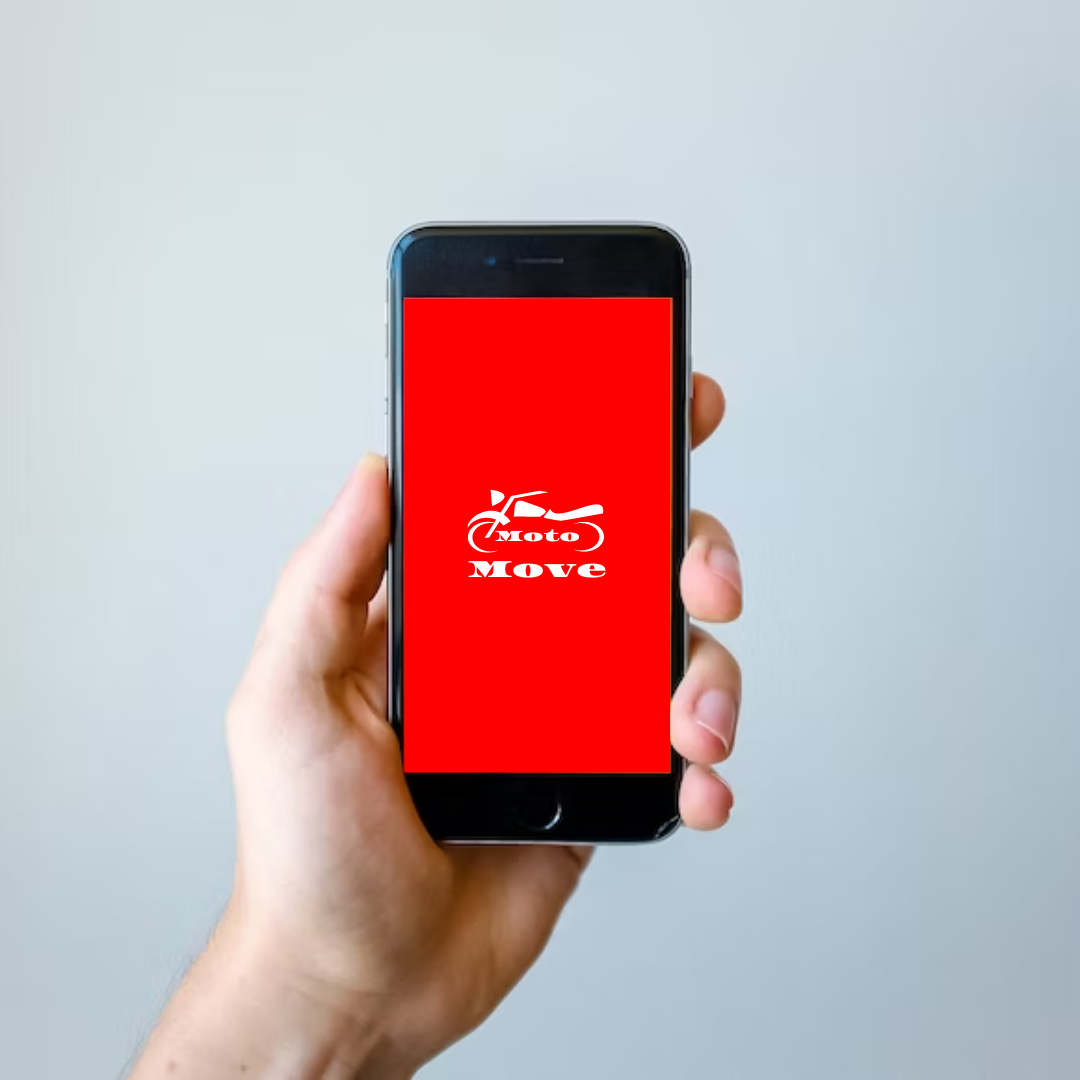
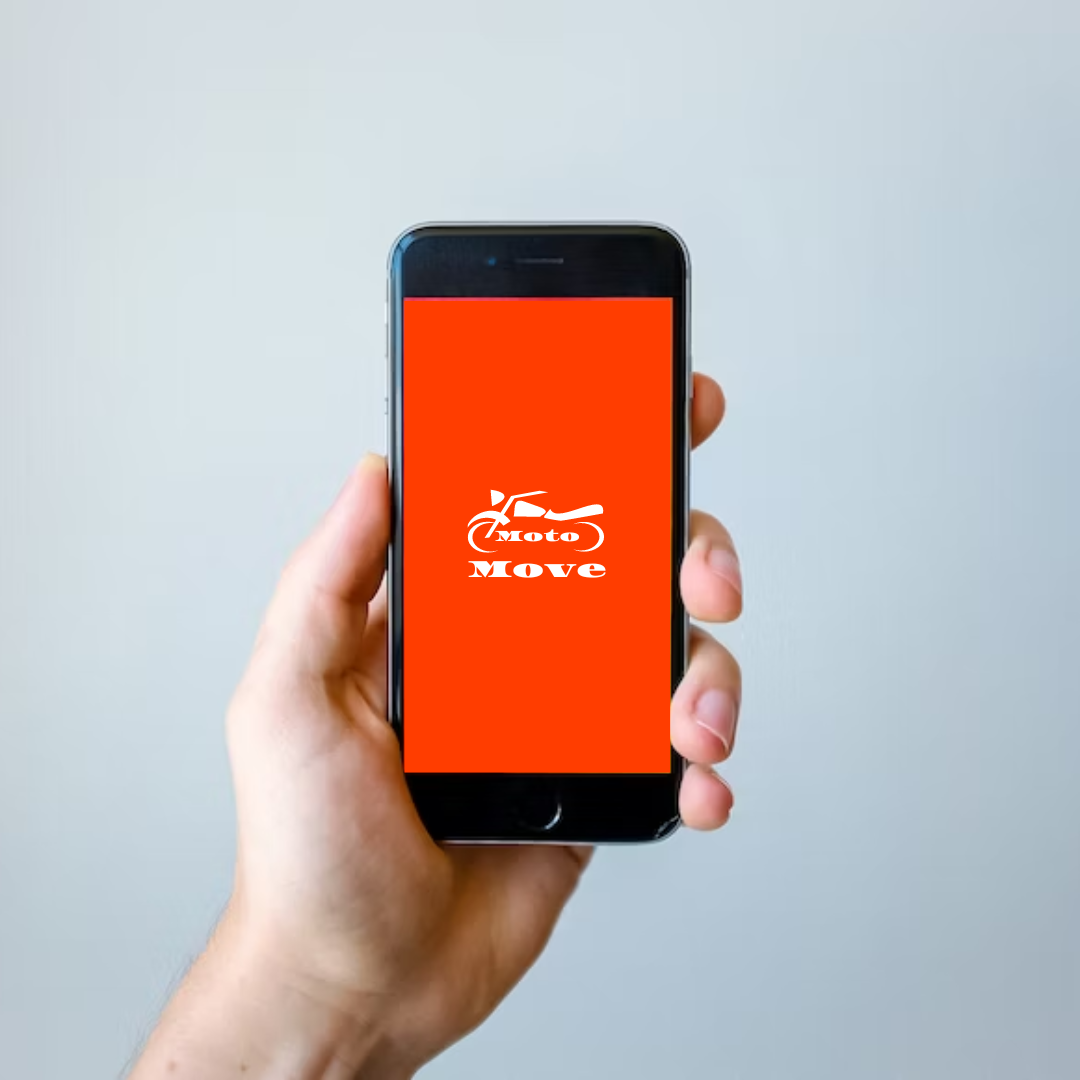
tela inicial pronta

Changed region(s): [[0.3667, 0.275, 0.6417, 0.7333]]

diff --git a/src/public/css/style.css b/src/public/css/style.css
@@ -1,11 +1,107 @@
 :root {
     --black-color: #000000;
     --dark-grey-color: #292929;
-    --main-red-color: #FF0000;
-    --light-grey-color: #7A7A7A;
+    --main-color: #FF3D00;
+    --light-main-color: #ff9270;
+    --light-grey-color: #ebe5e5;
     --white-color: #FFFFFF;
 }
 
-body {
-    background-color: #000000;
+/* Menu */
+.start-menu {
+    background-color: var(--main-color);
+}
+
+.logo-menu {
+    width: 9rem;
+}
+
+.menu-list {
+    color: var(--white-color);
+}
+
+.menu-list:hover {
+    color: var(--light-main-color);
+}
+
+hr {
+    width: 50%;
+    border-color: var(--main-color);
+    border-top: .2rem solid var(--main-color);
+    opacity: 100%;
+}
+
+/* About */
+.img-smartphone {
+    width: 25rem;
+}
+
+/* Register */
+#register {
+    background-color: var(--light-grey-color);
+    height: 37rem;
+}
+
+#register hr {
+    width: 21%;
+}
+
+.card-register {
+    width: 35rem;
+    text-align: center;
+    box-shadow: 5px 5px 10px rgba(0, 0, 0, 0.5);
+}
+
+.card-register p {
+    text-align: justify;
+}
+
+.button {
+    background-color: var(--main-color);
+    color: var(--white-color);
+}
+
+.button:hover {
+    background-color: var(--light-main-color);
+}
+
+#register ion-icon {
+    color: var(--main-color);
+    font-size: 5rem;
+}
+
+/* Contact */
+#contact li ion-icon{
+    color: var(--main-color);
+    font-size: 2rem;
+    margin-bottom: -.7rem;
+}
+
+#contact a ion-icon{
+    color: var(--white-color);
+    font-size: 1.5rem;
+    margin-bottom: -.35rem;
+}
+
+#contact li {
+    margin-top: 2rem;
+}
+
+/* Footer */
+.infos {
+    background-color: var(--light-main-color);
+}
+
+.social {
+    color: var(--main-color);
+    font-size: 1.6rem;
+}
+
+.social:hover {
+    color: var(--light-main-color);
+}
+
+.copyright {
+    background-color: var(--main-color);
+    color: var(--white-color);
 }

diff --git a/src/routes/routes.js b/src/routes/routes.js
@@ -9,10 +9,33 @@ routes.get('/',function(req, res){
 // Tela Inicial sem login
 routes.get('/inicio', function(req, res) {
   const dadosTemplate = {
-    title: 'MOTO MOVE | Bem-Vindo',
-    style: 'public/css/style.css'
+    title: 'MOTO MOVE | Bem-Vindo'
   };
   res.render('inicio', dadosTemplate);
 });
 
-module.exports =  routes;
+// Login
+routes.get('/login', function(req, res) {
+  const dadosTemplate = {
+    title: 'MOTO MOVE | Login' 
+  };
+  res.render('login', dadosTemplate);
+});
+
+// Cadastro Cliente
+routes.get('/cadastro/cliente', function(req, res) {
+  const dadosTemplate = {
+    title: 'MOTO MOVE | Cadastro Cliente'
+  };
+  res.render('cadastro-cliente', dadosTemplate);
+});
+
+// Cadastro Motorista
+routes.get('/cadastro/motorista', function(req, res) {
+  const dadosTemplate = {
+    title: 'MOTO MOVE | Cadastro Motorista'
+  };
+  res.render('cadastro-motorista', dadosTemplate);
+});
+
+module.exports = routes;
